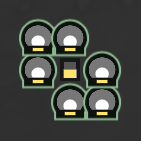
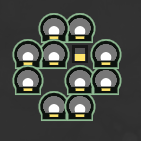
获取房间核心点
许多部分借鉴自曲奇大佬的bot

diff --git a/src/roomPlanner.js b/src/roomPlanner.js
@@ -1,5 +1,3 @@
-const extensionGNum = 6
-const extensionGroup = [[1,0],[-1,0],[0,1],[0,-1]]
 let buildingDict = {
     '0': '0',
     '1': STRUCTURE_STORAGE,
@@ -12,7 +10,8 @@ let buildingDict = {
     '8': STRUCTURE_NUKER,
     '9': STRUCTURE_TERMINAL,
     '10': STRUCTURE_FACTORY,
-    '11': STRUCTURE_CONTAINER
+    '11': STRUCTURE_CONTAINER,
+    '12': STRUCTURE_LAB
 }
 /*
 config存储配置，建筑块构造，数目，建造等级
@@ -23,29 +22,42 @@ config存储配置，建筑块构造，数目，建造等级
     buidRcl:对应groupLoc，对应建造的rcl【ext无等级一说，内部为每个块对应的起建等级
 */
 
-
-
 let roomConfig = {
     extensionGroup:{
+        r:3,
         num:10,
         groupLoc:[[0,0],[1,0],[-1,0],[0,1],[0,-1]],
         buildingType:[2,2,2,2,2],
         buildRcl:[2,2,3,3,4,4,5,5,6,6,7,7,8,8]
     },
     coreGroup:{
+        r:3,
         num:1,
         groupLoc:[[1,1],[1,0],[1,-1],[0,-1],[-1,-1],[-1,0],[-1,1],[0,1]],
         buildingType:[5,1,7,5,10,9,5,6],
         buildRcl:[1,4,8,7,7,6,8,6]
     },
     towerGroup:{
+        r:3,
         num:1,
         groupLoc:[[-1,1],[0,1],[1,0],[1,-1],[0,-1],[-1,0],[0,0]],
         buildingType:[4,4,4,4,4,4,11],
         buildRcl:[3,5,7,8,8,8,7]
+    },
+    labGroup:{
+        r:4,
+        num:1,
+        groupLoc:[[0,-1],[1,-1],[1,0],[2,0],[2,1],[1,2],[0,2],[0,1],[-1,1],[-1,0],[0,0]],
+        buildingType:[12,12,12,12,12,12,12,12,12,12,11],
+        buildRcl:[6,6,6,7,7,7,8,8,8,8]
     }
 
 }
+
+/*
+PS:大量方法及思路均借鉴自曲奇大佬
+【有些常用函数懒得写就直接抄曲奇大佬的了
+*/
 class roomPlan{
     /**
      * 
@@ -53,9 +65,9 @@ class roomPlan{
      */
     constructor(roomName){
         this.room = roomName
-    }   
+    }
     getPlan(){
-        
+        let targetRoom = Game.rooms[this.room]
         let layout = {
             spawn: [],
             extension: [],
@@ -72,10 +84,124 @@ class roomPlan{
             container: [],
             road: []
         };
-
+        let controller = targetRoom.controller
+        let controllerCostMap = initArr(0)
+        this.getCostArray(controllerCostMap, controller.pos.x, controller.pos.y, 3);
         
+        let sourceCostMap = initArr(0);
+        let sources = targetRoom.find(FIND_SOURCES)
+        for (let source of sources) {
+            this.getCostArray(sourceCostMap, source.pos.x, source.pos.y, 3);
+        }
+        
+        let mineralCostMap = initArr(0);
+        let mineralL = targetRoom.find(FIND_MINERALS);
+        if(mineralL.length > 0){
+            let mineral = mineralL[0];
+            this.getCostArray(mineralCostMap, mineral.pos.x, mineral.pos.y, 2);
+        }
+        
+
+        let tempMap = addArrays(sourceCostMap, multiplyArray(mineralCostMap, 0.25),
+            controllerCostMap);
+
+        let min = findMin(tempMap)
+        return min
+        
+
     }
+    getCostArray(array, x, y, infRange) {
+        let room = this.room;
+        let initx = x, inity = y;
+        let arr = this.bfs(x, y);
+        for (let x = 0; x < 50; x++) {
+            for (let y = 0; y < 50; y++) {
+                let dx = Math.abs(x - initx);
+                let dy = Math.abs(y - inity);
+                if ((dx <= infRange && dy <= infRange) || arr[x][y] < 1) {
+                    array[x][y] += Infinity;
+                } else {
+                    array[x][y] += arr[x][y] - infRange;
+                }
+            }
+        }
+    }
+    bfs(initx, inity) {
+        let terrain = new Room.Terrain(this.room);
+        let arr = initArr(0);
+        let frontier = [[initx, inity]];
+        let explored = initArr(false);
+        while (frontier.length > 0) {
+            let pos = frontier.shift();
+            let x = pos[0];
+            let y = pos[1];
+            let neighbors = [[x - 1, y - 1], [x - 1, y], [x - 1, y + 1],
+                [x, y - 1], [x, y + 1], [x + 1, y - 1], [x + 1, y], [x + 1, y + 1]];
+            for (let p of neighbors) {
+                if (!isOnWallOrEdge(...p, terrain) && !explored[p[0]][p[1]]) {
+                    arr[p[0]][p[1]] = arr[x][y] + 1;
+                    frontier.push(p);
+                    explored[p[0]][p[1]] = 1;
+                }
+            }
+        }
+        return arr;
+    }
+    
 }
 
+module.exports = roomPlan;
 
 
+function initArr(content) {
+    let arr = new Array(50);
+    for (let i = 0; i < 50; i++) {
+        arr[i] = new Array(50).fill(content);
+    }
+    return arr;
+}
+
+function isOnWallOrEdge(x, y, rt) {
+    if (x <= 0 || x >= 49 || y <= 0 || y >= 49) {
+        return true;
+    }
+    return rt.get(x, y) === TERRAIN_MASK_WALL;
+}
+
+function addArrays(...arrays) {
+    let result = initArr(0);
+    for (let array of arrays) {
+        for (let x = 0; x < 50; x++) {
+            for (let y = 0; y < 50; y++) {
+                result[x][y] += array[x][y];
+            }
+        }
+    }
+    return result;
+}
+
+function multiplyArray(array, constant) {
+    let result = initArr(0);
+    for (let x = 0; x < 50; x++) {
+        for (let y = 0; y < 50; y++) {
+            result[x][y] += array[x][y] * constant;
+        }
+    }
+    return result;
+}
+
+function findMin(matrix) {
+    let minValue = Infinity;
+    let minX = -1;
+    let minY = -1;
+    for (let x = 0; x < 50; x++) {
+        for (let y = 0; y < 50; y++) {
+            if (matrix[x][y] < minValue) {
+                minX = x;
+                minY = y;
+                minValue = matrix[x][y];
+            }
+        }
+    }
+    return [minX, minY];
+}

diff --git a/src/main.js b/src/main.js
@@ -1,8 +1,11 @@
 let DT = require('distanceTransfer')
-
+let rP = require('roomPlanner')
 module.exports.loop = function() {
-    let dt = DT.getDistanceTransfer('sim',[[18,24]])
+    // let dt = DT.getDistanceTransfer('sim',[[18,24]])
+    // DT.displayCostMatrix(dt);
+    let roomP = new rP('sim')
+    let locmin = roomP.getPlan()
     let rv = new RoomVisual()
-    rv.text('qwe',18,24)
-    DT.displayCostMatrix(dt);
+    rv.text('min',locmin[0],locmin[1])
+    
 }

diff --git a/doc/自动建筑规划设计案.md b/doc/自动建筑规划设计案.md
@@ -46,7 +46,10 @@
 
     >Orangey-yellow: 'reserved' by a building' purple is the bounding box (though slightly off I think) and green is the generated walls.  
 
-    由图中可见有部分不必要的rampart生成(mineral旁)，目前认为该部分可用floodfill方法判定并去除【暂时计划
+    由图中可见有部分不必要的rampart生成(mineral旁)，目前认为该部分可用floodfill方法判定并去除【~~暂时计划~~ 已决定  
+    >**Tigga**:Floodfill from all exits. Don't let it cross circles. Any untouched circle you can remove.  
+
+    即从每个出口点进行floodfill并移除掉所有不能接触(指在所到点周围8格)的rampart，虽然解决了一定问题，但是rampart的生成也不一定为最优，仍可考虑优化
     
 ***
 
